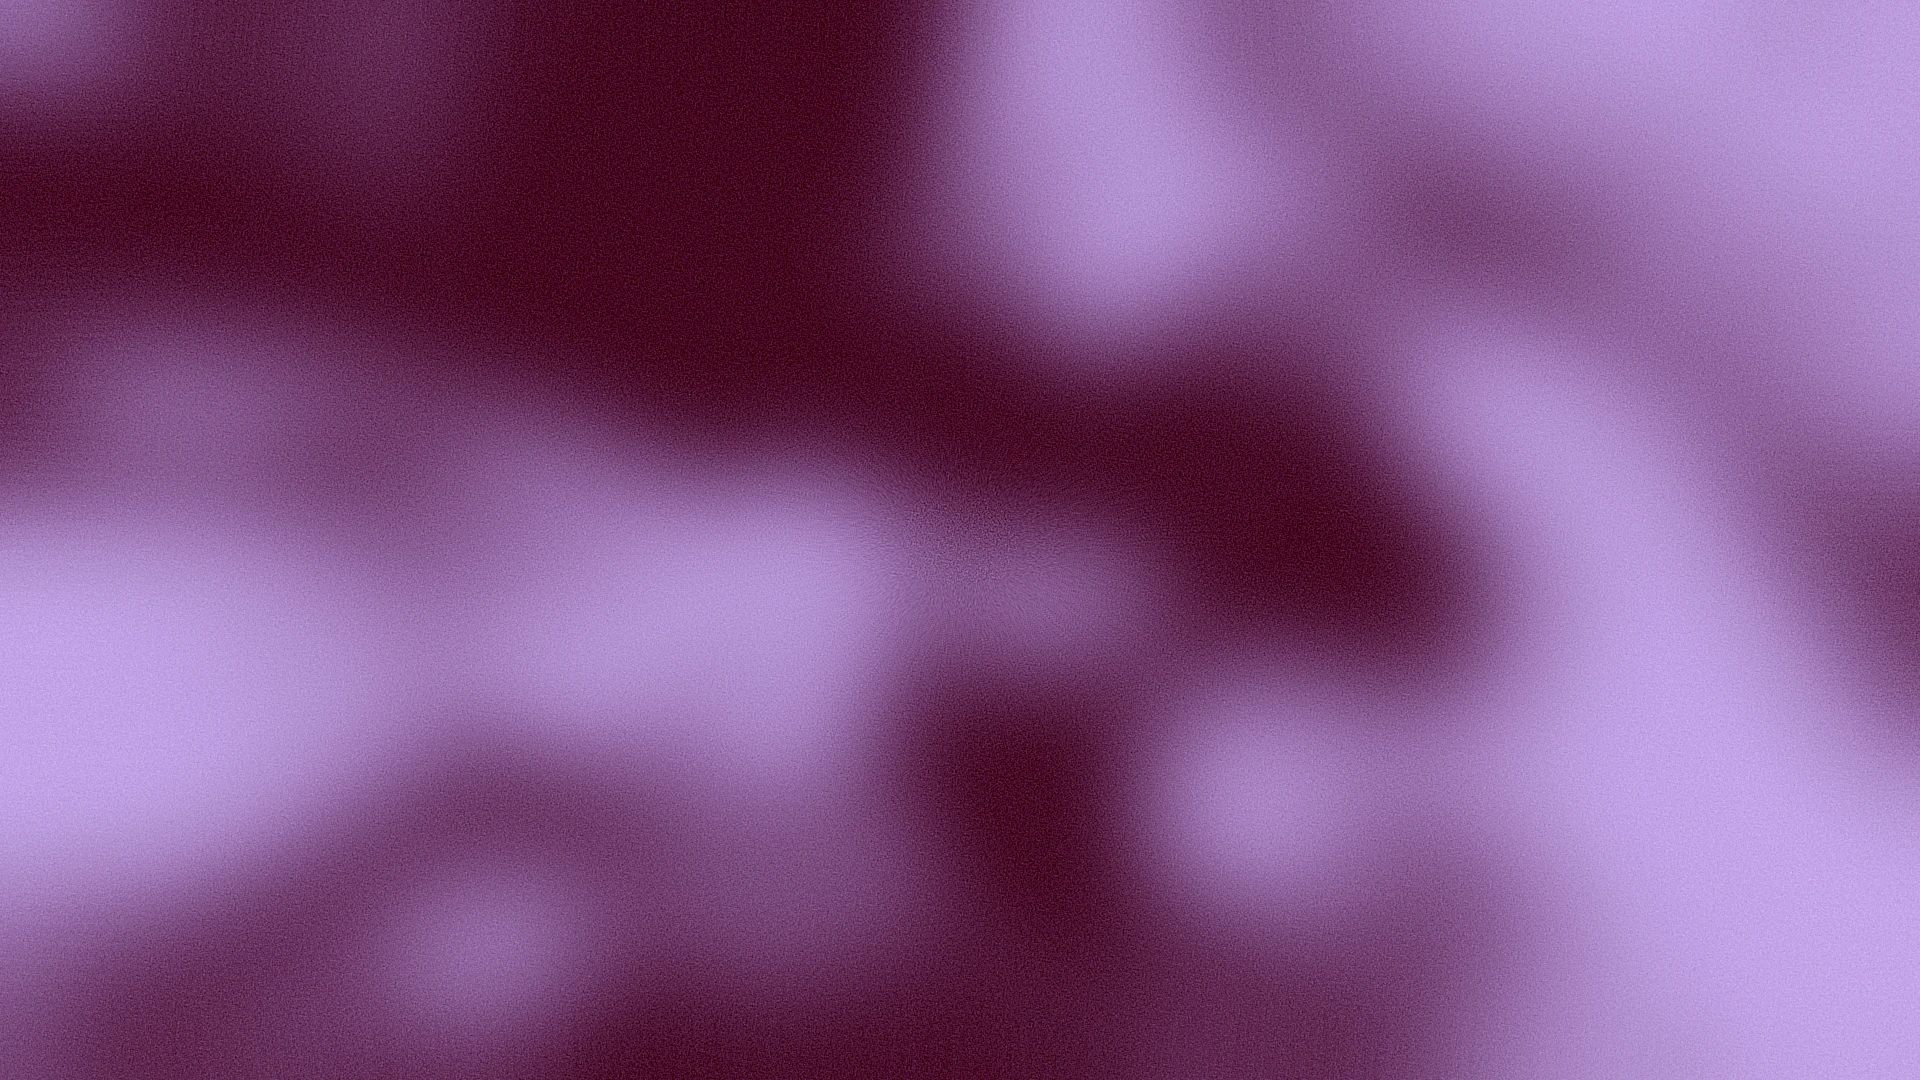
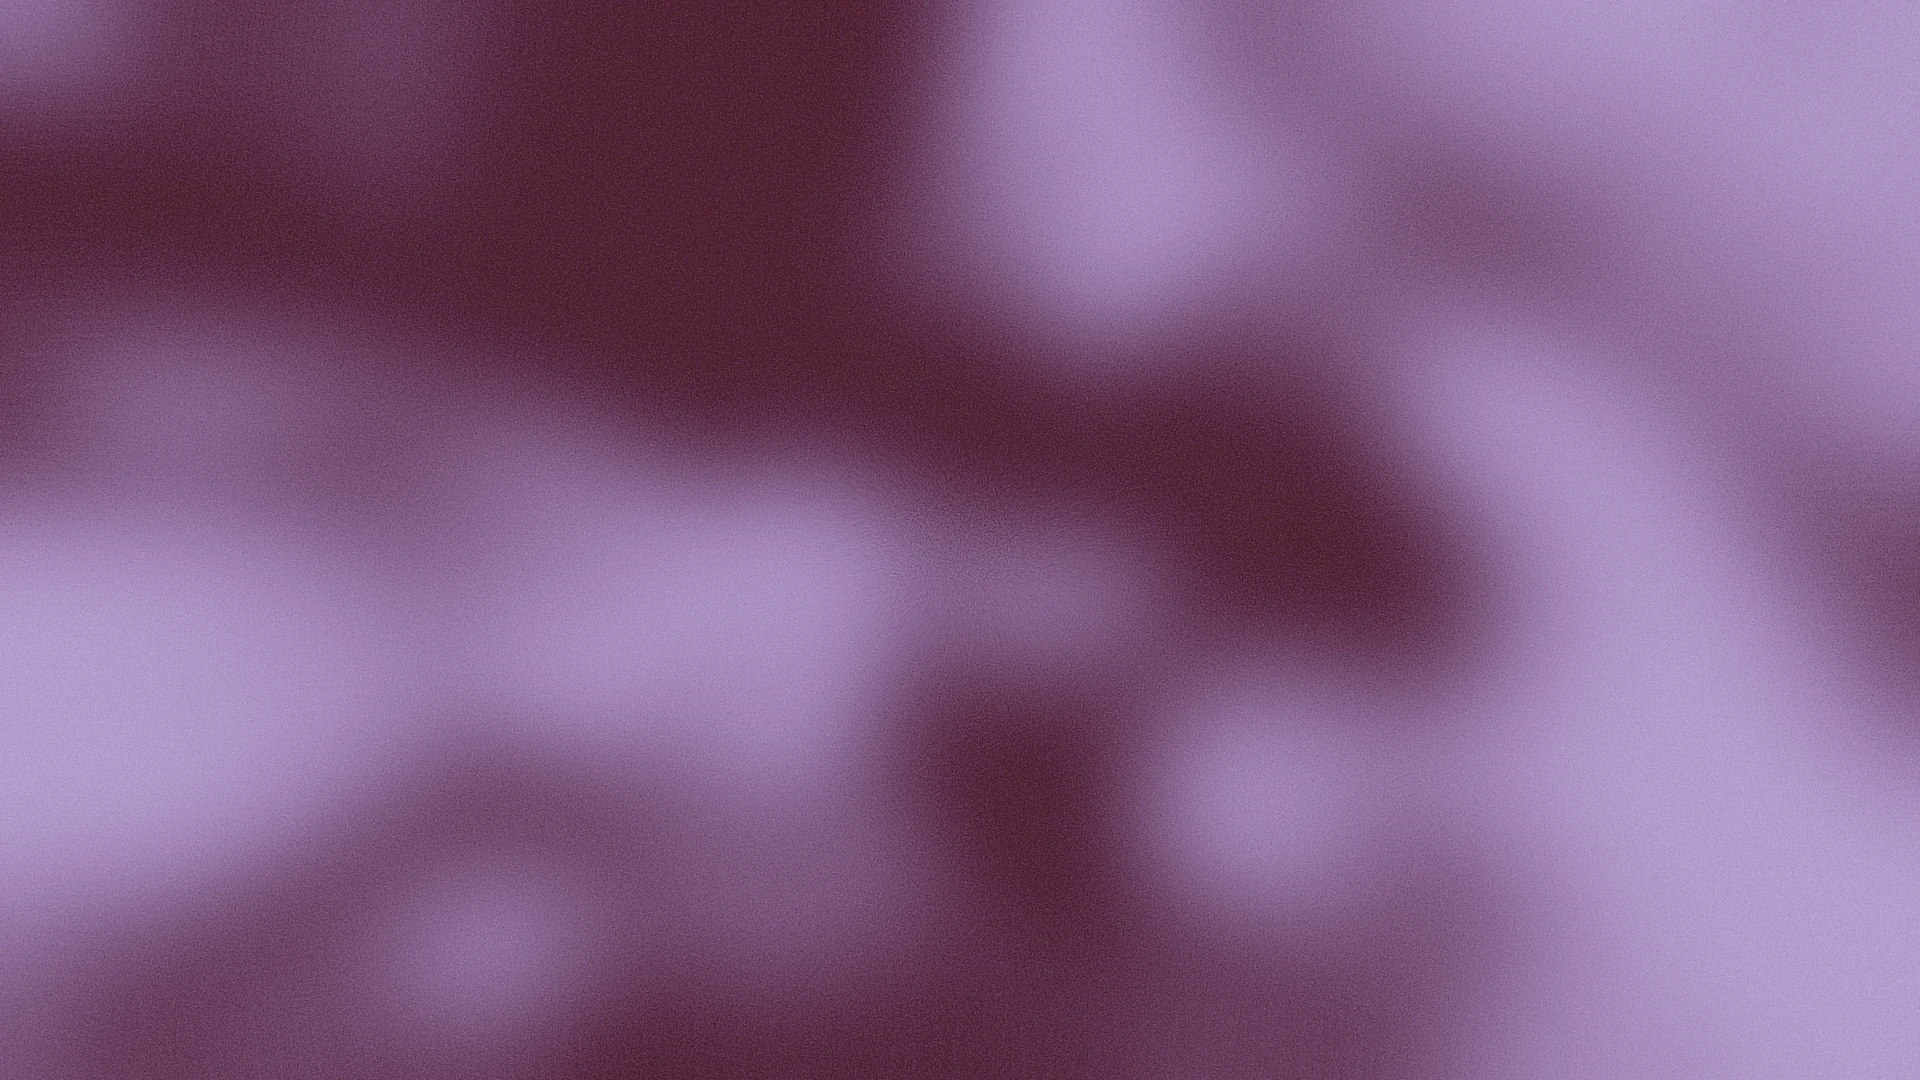
Edits

diff --git a/components/NavBar.tsx b/components/NavBar.tsx
@@ -2,7 +2,11 @@ import Image from "next/image";
 
 export const NavBar = ({ onSearchClick }) => {
     return (
-        <div className="poppins text-white text-xs sm:text-sm md:text-base px-4 md:px-6 rounded-2xl black-opaque flex flex-row items-center justify-between py-2 max-w-full md:max-w-[500px] w-full">
+        <div className="poppins text-white text-xs sm:text-sm md:text-base px-4 md:px-6 rounded-2xl nav-bar flex backdrop-blur-[200px] flex-row items-center justify-between py-2 max-w-full md:max-w-[500px] w-full">
+            <button className="flex items-center justify-center w-auto h-auto flex-col gap-1">
+                <Image src='/icons/home-icon.svg' alt='Related Media' width={19} height={17} />
+                <p>home</p>
+            </button>
             <button className="flex items-center justify-center w-auto h-auto flex-col gap-1">
                 <Image src='/icons/tv-icon-white.svg' alt='Related Media' width={19} height={17} />
                 <p>media</p>

diff --git a/components/FeedItem.tsx b/components/FeedItem.tsx
@@ -116,7 +116,7 @@ const FeedItem: React.FC<FeedItemProps> = ({
     >
       <div
         className={`box gap-[15px] md:gap-[25px] flex-col p-[10px] md:px-[20px] !justify-start white-opaque rounded-[40px] min-h-fit h-full ${
-          isQuestion ? "black-opaque" : "white-opaque"
+          isQuestion ? "black-card" : "white-opaque"
         }`}
       >
         <div className="title-turn-play px-2 md:px-0 flex flex-row justify-between items-center h-fit w-full">
@@ -131,7 +131,7 @@ const FeedItem: React.FC<FeedItemProps> = ({
           <div className="turn-play w-fit h-fit flex flex-row justify-end items-center gap-[5px]">
             <div
               className={`turn flex w-fit !shadow-none text-base md:text-lg h-fit px-[3px] max-sm:px-[1px] py-[1px] items-center rounded-full box ${
-                isQuestion ? "white-opaque" : "black-opaque"
+                isQuestion ? "white-opaque" : "black-card"
               }`}
             >
               Turn {turn_number}

diff --git a/app/globals.css b/app/globals.css
@@ -238,9 +238,23 @@ html, body {
 
 /* fa */
 .black-opaque {
+  background: rgba(0, 0, 0, 0.5);
+  box-shadow: 0px 4px 15px 0px rgba(0, 0, 0, 0.25);
+  color: white;
+  backdrop-filter: blur(50px);
+}
+
+.black-card {
   background: rgba(0, 0, 0, 0.8);
   box-shadow: 0px 4px 15px 0px rgba(0, 0, 0, 0.25);
   color: white;
+}
+
+.nav-bar {
+  background: rgba(0, 0, 0, 0.5);
+  box-shadow: 0px 4px 15px 0px rgba(0, 0, 0, 0.25);
+  color: white;
+  backdrop-filter: blur(50px);
 }
 
 .standard-shadow {

diff --git a/app/home/page.tsx b/app/home/page.tsx
@@ -405,7 +405,7 @@ const HomePage = () => {
 
       </div>
 
-      <div className="navbar fixed bottom-5 w-full max-w-[500px] z-40">
+      <div className="navbar fixed bottom-3 w-full max-w-[500px] z-40 px-[10px] md:px-[20px]">
         <NavBar onSearchClick={toggleSearchTab} />
       </div>
 
